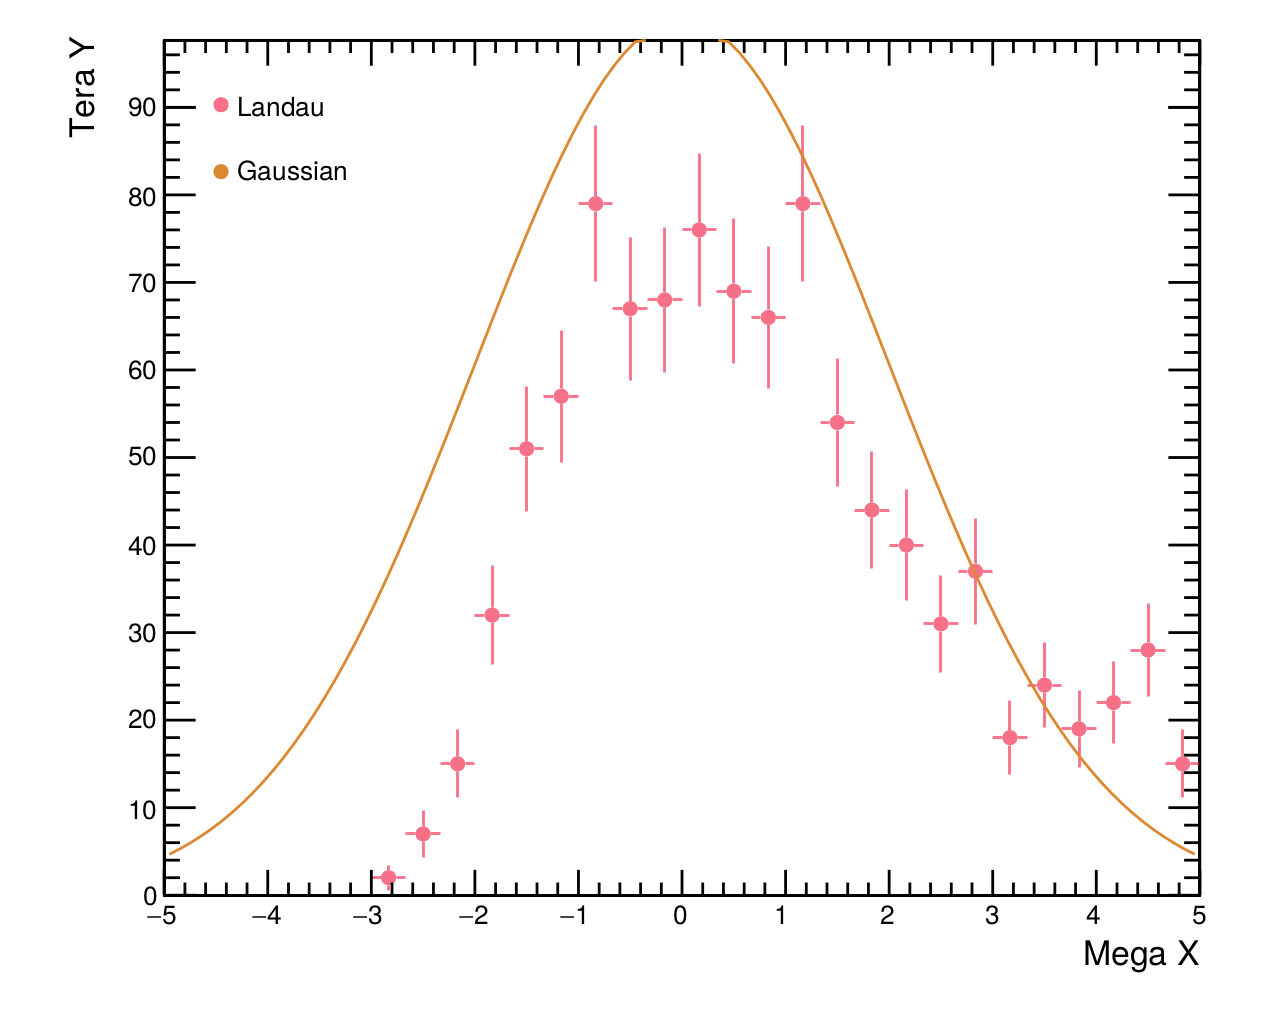
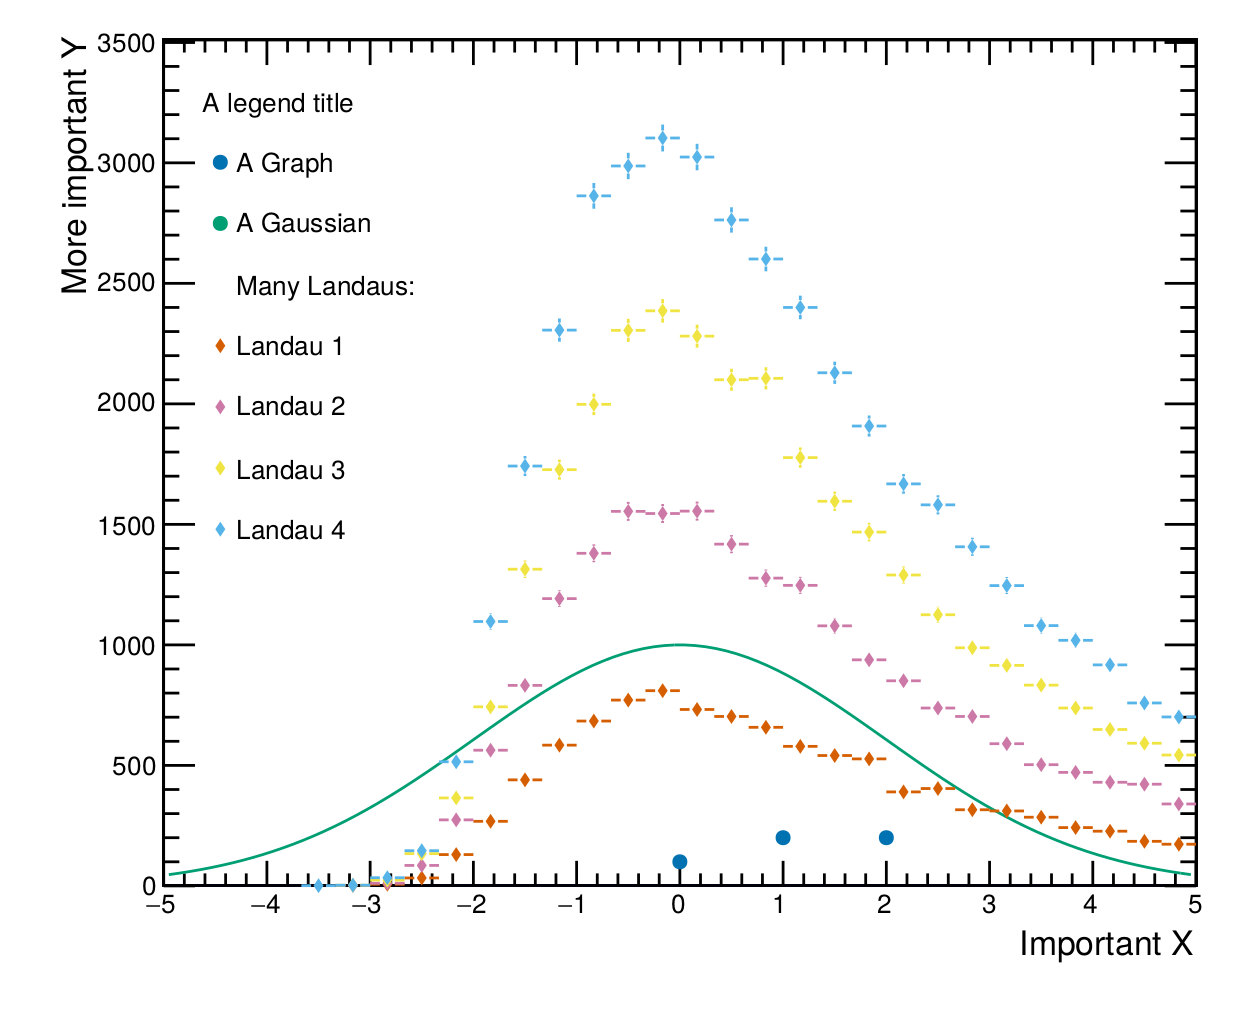
updated example plot

diff --git a/examples/busy_plot.py b/examples/busy_plot.py
@@ -1,21 +1,37 @@
 from ROOT import TF1
-from rootpy.plotting import Hist1D
+from rootpy.plotting import Hist1D, Graph
 from roofie import Figure, Styles
 
-h = Hist1D(30, -5, 5)
-h.FillRandom('landau', 1000)
-
-f = TF1("f", "100*exp(-0.5*((x)/2)**2)", -5, 5)
-
+# Define the visuals of the figure:
 fig = Figure()
 fig.style = Styles.Public_full
 # Drawing the legend currently still screws up the y scale! :P
 # This is why we love root...
-fig.legend.title = "Functions"
-fig.legend.position = 'tr'  # top right
-fig.xtitle = "Mega X"
-fig.ytitle = "Tera Y"
+fig.legend.title = "A legend title"
+fig.legend.position = 'tl'  # top left
+fig.xtitle = "Important X"
+fig.ytitle = "More important Y"
 
-fig.add_plottable(h, legend_title="Landau")
-fig.add_plottable(f, legend_title='Gaussian')
+# You can also pick a color palette.  The choices are "root", "set2",
+# "husl", and "colorblind"
+fig.plot.palette = "colorblind"
+
+# Define the "plottables" and add them to the figure
+f = TF1("f", "1000*exp(-0.5*((x)/2)**2)", -5, 5)
+g = Graph()
+g.SetPoint(0, 0, 100)
+g.SetPoint(1, 1, 200)
+g.SetPoint(2, 2, 200)
+fig.add_plottable(g, legend_title="A Graph")
+fig.add_plottable(f, legend_title='A Gaussian')
+
+# add_plottable makes a deep copy of the passed object so you can do whatever you want after its "commited" to the figure.
+# ie. overwrite a histogram in a loop:
+fig.add_plottable(None, legend_title="Many Landaus:")
+for i in range(1, 5):
+    h = Hist1D(30, -5, 5)
+    h.FillRandom('landau', 10000 * i)
+    fig.add_plottable(h, legend_title="Landau {}".format(i), markerstyle='diamond')
+
+
 fig.save_to_file(path=".", name="busy_plot.pdf")

diff --git a/README.rst b/README.rst
@@ -20,29 +20,44 @@ Examples
 In the end, an example might say more than a thousand words. Lets create a busy plot with graphs, histograms and functions and save it to a pdf file:
 
 .. code-block:: python
-
+		
     from ROOT import TF1
-    from rootpy.plotting import Hist1D
+    from rootpy.plotting import Hist1D, Graph
     from roofie import Figure, Styles
-    
-    h = Hist1D(30, -5, 5)
-    h.FillRandom('landau', 1000)
-    
-    f = TF1("f", "100*exp(-0.5*((x)/2)**2)", -5, 5)
-    
+
+    # Define the visuals of the figure:
     fig = Figure()
     fig.style = Styles.Public_full
     # Drawing the legend currently still screws up the y scale! :P
     # This is why we love root...
-    fig.legend.title = "Functions"
-    fig.legend.position = 'tr'  # top right
-    fig.xtitle = "Mega X"
-    fig.ytitle = "Tera Y"
-    
-    fig.add_plottable(h, legend_title="Landau")
-    fig.add_plottable(f, legend_title='Gaussian')
-    fig.save_to_file(path=".", name="busy_plot.pdf")
+    fig.legend.title = "A legend title"
+    fig.legend.position = 'tl'  # top left
+    fig.xtitle = "Important X"
+    fig.ytitle = "More important Y"
 
+    # You can also pick a color palette.  The choices are "root", "set2",
+    # "husl", and "colorblind"
+    fig.plot.palette = "husl"
+
+    # Define the "plottables" and add them to the figure
+    f = TF1("f", "1000*exp(-0.5*((x)/2)**2)", -5, 5)
+    g = Graph()
+    g.SetPoint(0, 0, 100)
+    g.SetPoint(1, 1, 200)
+    g.SetPoint(2, 2, 200)
+    fig.add_plottable(g, legend_title="A Graph")
+    fig.add_plottable(f, legend_title='A Gaussian')
+
+    # add_plottable makes a deep copy of the passed object so you can do whatever you want after its "commited" to the figure.
+    # ie. overwrite a histogram in a loop:
+    fig.add_plottable(None, legend_title="Many Landaus:")
+    for i in range(1, 5):
+        h = Hist1D(30, -5, 5)
+        h.FillRandom('landau', 10000 * i)
+        fig.add_plottable(h, legend_title="Landau {}".format(i), markerstyle='diamond')
+    
+
+    fig.save_to_file(path=".", name="busy_plot.pdf")
 
 .. image:: examples/busy_plot.png
 
